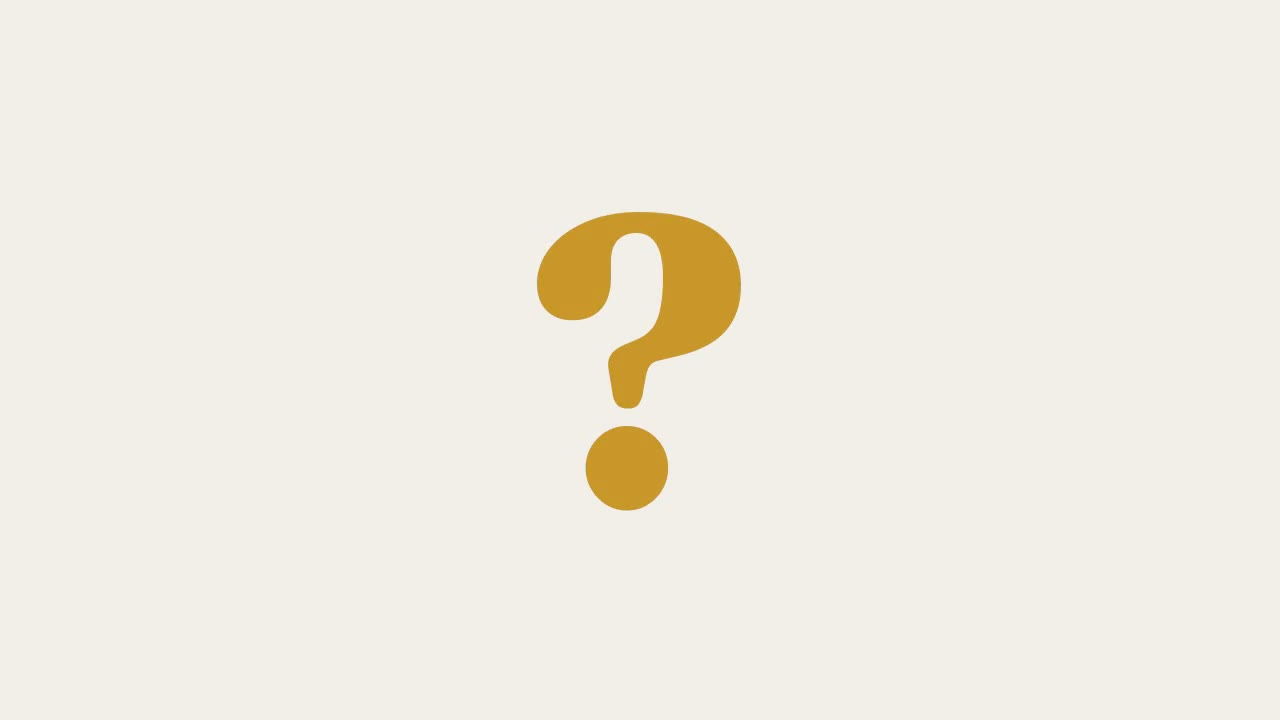
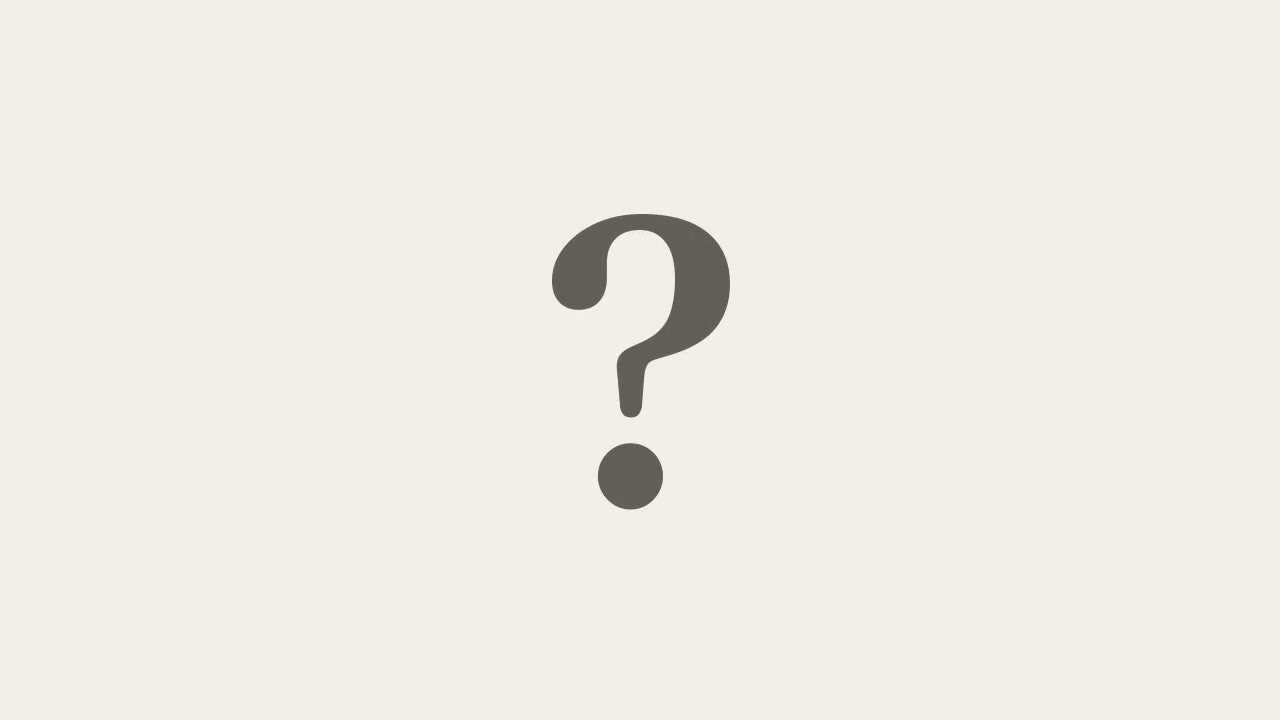
SSS soru işareti koyu gri, ince

Changed region(s): [[0.4062, 0.275, 0.5938, 0.7333]]

diff --git a/index.html b/index.html
@@ -258,7 +258,7 @@ footer a.ik{display:inline-flex;align-items:center;gap:10px}footer a.ik svg{widt
     </section>
   </div>
   <aside class="sahne" aria-hidden="true"><div class="cerceve" id="cerceve2">
-    <video class="on" muted loop playsinline preload="metadata" poster="img/video/sorular.jpg?v=1794296407" src="img/video/sorular.mp4?v=1794296407"></video>
+    <video class="on" muted loop playsinline preload="metadata" poster="img/video/sorular.jpg?v=1794296451" src="img/video/sorular.mp4?v=1794296451"></video>
     <video muted loop playsinline preload="metadata" poster="img/video/iletisim.jpg?v=1794249473" src="img/video/iletisim.mp4?v=1794249473"></video>
     <span class="altyazi" id="altyazi2">Bekleme salonu</span>
   </div></aside>
